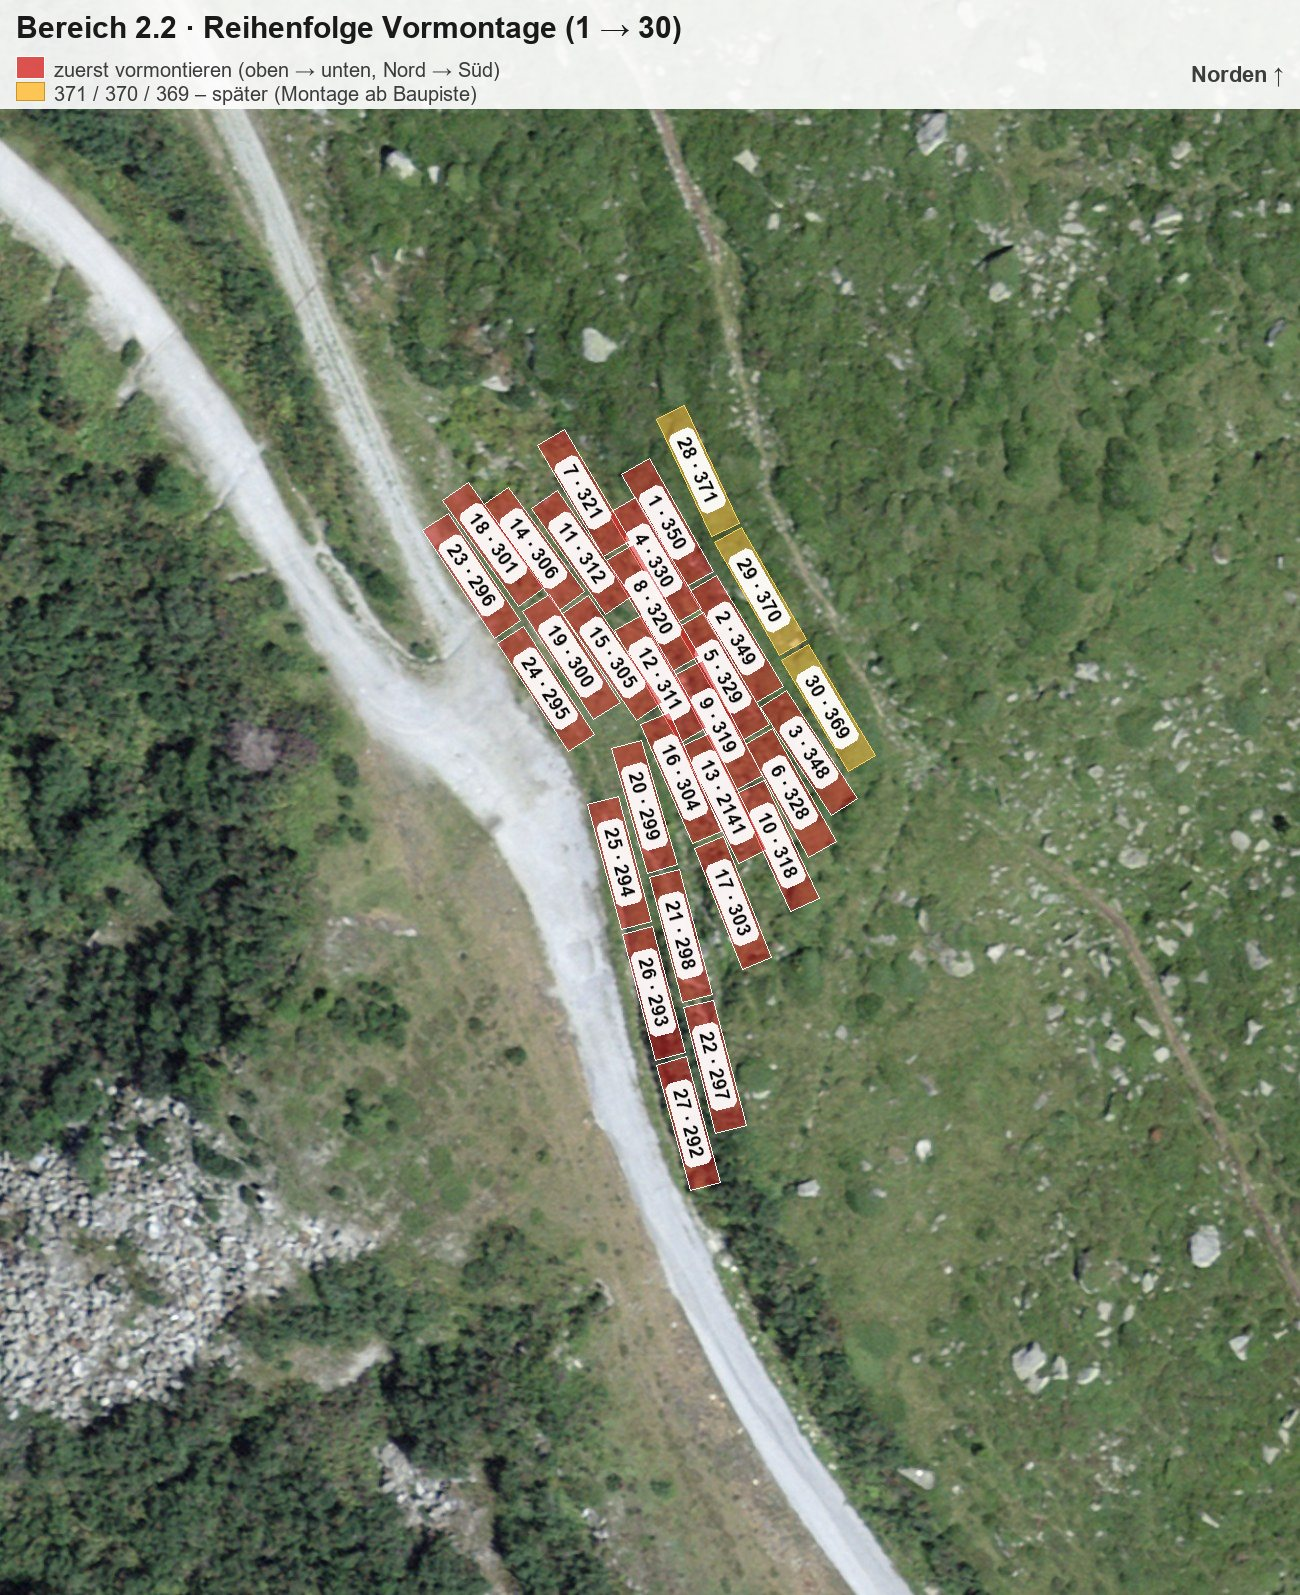
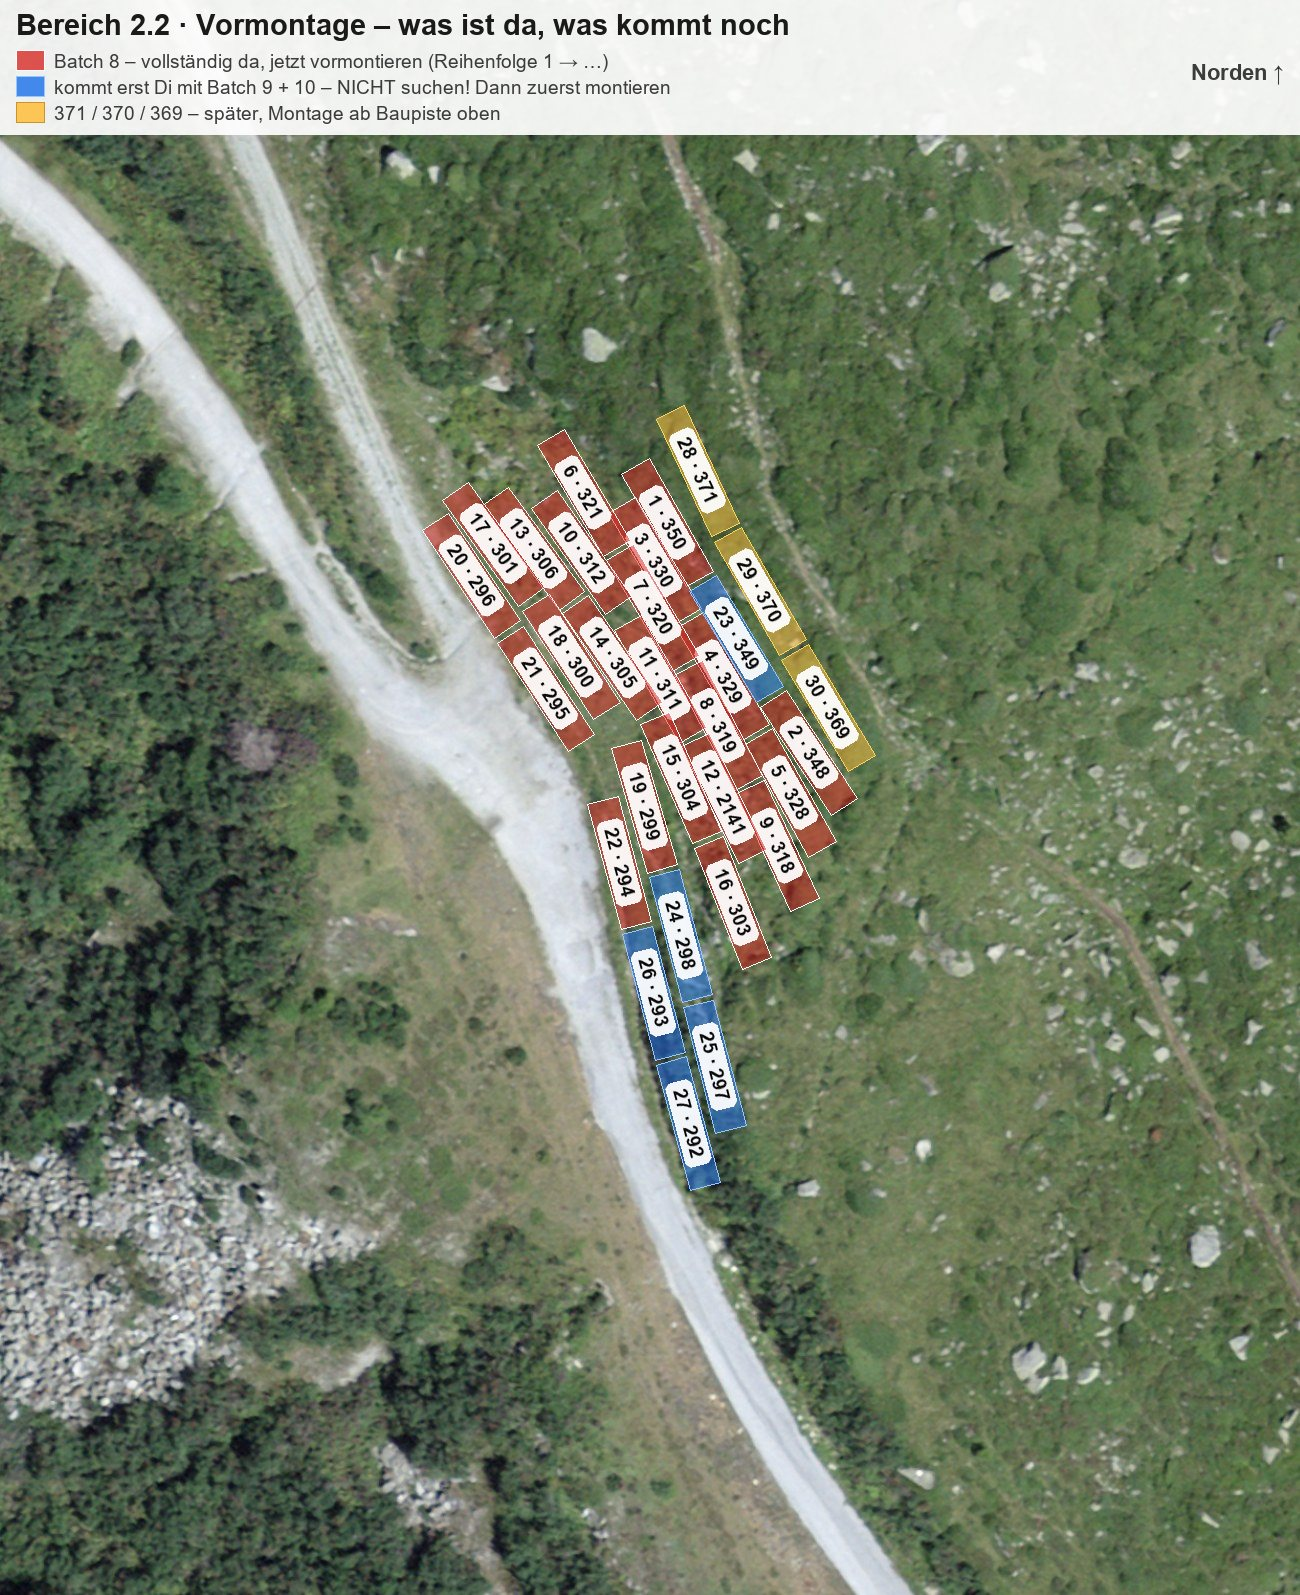
Auftrag 2.2: Batch 8 vor Ort, 5 Tische kommen erst Dienstag
- Bildabgleich mit Victors Nalpi-Karten: 25 der 30 Tische sind Batch 8 und
  vollstaendig vor Ort; 349, 298, 297, 293, 292 fehlen noch (Batch 9+10,
  Dienstag) - Victor sprach von 4, auf dem Bild sind es 5
- Auftragsliste neu gruppiert: zuerst Batch 8, dann Block NOCH NICHT DA
  (blauer Trennbalken, dreisprachig: nicht suchen, bei Ankunft zuerst
  montieren), dann die drei Baupiste-Tische; jede ID mit kleinem Chip
- Karte neu: rot = Batch 8, blau = kommt Dienstag, gelb = ab Baupiste;
  Nummern folgen jetzt der gruppierten Reihenfolge
- Anweisung erlaubt Gruppen-Trennbalken (Feld badges je ID)
- SW-Cache v72

diff --git a/vormontage.html b/vormontage.html
@@ -719,11 +719,21 @@ function anwMalen(){
     'style="width:100%;border:1px solid var(--line);border-radius:6px;cursor:zoom-in" '+
     'onclick="bildGross(this.src)"></div>';
   h+='<div class="tabWrap"><table>';
+  var letzteGruppe=null;
   anw.ids.forEach(function(id,i){
     var ok=!!anwOk[id];
+    var b=(anw.badges&&anw.badges[id])||null;      // {txt, farbe, gruppe}
+    if(b && b.gruppe!==letzteGruppe){              // Zwischenüberschrift je Gruppe
+      letzteGruppe=b.gruppe;
+      h+='<tr><td colspan="3" style="padding-top:14px">'
+        +'<div style="background:'+esc(b.farbe)+';color:#fff;font-weight:900;font-size:12.5px;'
+        +'border-radius:6px;padding:7px 10px">'+esc(b.gruppe)+'</div></td></tr>';
+    } else if(!b && letzteGruppe!==null){ letzteGruppe=null; }
     h+='<tr'+(ok?' style="opacity:.5"':'')+'>'
       +'<td style="width:34px;font-weight:900;color:var(--mut)">'+(i+1)+'.</td>'
-      +'<td style="font-size:19px;font-weight:900'+(ok?';text-decoration:line-through':'')+'">'+esc(id)+'</td>'
+      +'<td style="font-size:19px;font-weight:900'+(ok?';text-decoration:line-through':'')+'">'+esc(id)
+      +(b?' <span style="font-size:11px;font-weight:800;background:'+esc(b.farbe)+';color:#fff;'
+          +'border-radius:4px;padding:2px 6px;vertical-align:2px">'+esc(b.txt)+'</span>':'')+'</td>'
       +'<td style="text-align:right"><button class="btn '+(ok?'ghost':'gruen')+'" style="padding:9px 12px"'
       +' onclick="anwHaken(\''+esc(id)+'\','+(ok?'false':'true')+')">'+(ok?'↺':'✔')+'</button></td></tr>';
   });

diff --git a/sw.js b/sw.js
@@ -1,5 +1,5 @@
 'use strict';
-var CACHE = 'nalpsolar-v71';
+var CACHE = 'nalpsolar-v72';
 var PRECACHE = [
   './index.html',
   './logistik.html',

diff --git a/tools/build_auftragskarte.py b/tools/build_auftragskarte.py
@@ -7,8 +7,9 @@ from PIL import Image, ImageDraw, ImageFont
 
 WEB = r"c:\Users\MaltVic\OneDrive - Strabag BRVZ GmbH\Claude_Projects\Nalps_Ultra_KI\Website_NalpSolar"
 ZIEL = os.path.join(WEB, "assets", "img", "auftrag_bereich22.png")
-FOLGE = json.load(io.open(r"C:\Users\MaltVic\AppData\Local\Temp\claude\folge22.json"))
-SPAETER = {"371", "370", "369"}
+FOLGE = json.load(io.open(r"C:\Users\MaltVic\AppData\Local\Temp\claude\folge22_gruppiert.json"))
+SPAETER = {"371", "370", "369"}                       # gelb: Montage ab Baupiste
+LIEFERUNG = {"349", "298", "297", "293", "292"}       # blau: kommt Di mit Batch 9+10
 
 tische = {t[0]: t for t in json.load(io.open(os.path.join(WEB, "uploads", "tables", "modultische_all.json"), encoding="utf-8"))}
 aus = [tische[i] for i in FOLGE if i in tische]
@@ -54,9 +55,10 @@ for nr, tid in enumerate([t[0] for t in aus], 1):
     dQe, dQn = math.sin(aQ) * BREITE_TISCH / 2, math.cos(aQ) * BREITE_TISCH / 2
     ecken = [px(E + dLe + dQe, N + dLn + dQn), px(E + dLe - dQe, N + dLn - dQn),
              px(E - dLe - dQe, N - dLn - dQn), px(E - dLe + dQe, N - dLn + dQn)]
-    spaet = tid in SPAETER
-    d.polygon(ecken, fill=(255, 190, 60, 130) if spaet else (215, 38, 34, 130),
-              outline=(255, 210, 90) if spaet else (255, 255, 255))
+    if tid in SPAETER:      fuell, rand = (255, 190, 60, 130), (255, 210, 90)
+    elif tid in LIEFERUNG:  fuell, rand = (40, 120, 235, 140), (150, 200, 255)
+    else:                   fuell, rand = (215, 38, 34, 130), (255, 255, 255)
+    d.polygon(ecken, fill=fuell, outline=rand)
     # Nummer + ID, in die Tischachse gedreht (sonst ueberlappen die Reihen)
     cx, cy = px(E, N)
     label = "%d · %s" % (nr, tid)
@@ -74,14 +76,16 @@ for nr, tid in enumerate([t[0] for t in aus], 1):
     karte.paste(chip, (int(cx - chip.width / 2), int(cy - chip.height / 2)), chip)
 
 # Legende
-lh = 108
-d.rectangle([0, 0, BREITE, lh], fill=(255, 255, 255, 232))
-d.text((16, 10), "Bereich 2.2 · Reihenfolge Vormontage (1 → %d)" % len(aus), font=f(30), fill=(26, 26, 26))
-d.rectangle([16, 56, 44, 78], fill=(215, 38, 34, 200), outline=(255, 255, 255))
-d.text((54, 58), "zuerst vormontieren (oben → unten, Nord → Süd)", font=f(20, False), fill=(60, 60, 60))
-d.rectangle([16, 82, 44, 100], fill=(255, 190, 60, 220), outline=(200, 150, 40))
-d.text((54, 82), "371 / 370 / 369 – später (Montage ab Baupiste)", font=f(20, False), fill=(60, 60, 60))
-d.text((BREITE - 16, 62), "Norden ↑", font=f(22), fill=(60, 60, 60), anchor="ra")
+lh = 134
+d.rectangle([0, 0, BREITE, lh], fill=(255, 255, 255, 234))
+d.text((16, 8), "Bereich 2.2 · Vormontage – was ist da, was kommt noch", font=f(29), fill=(26, 26, 26))
+d.rectangle([16, 50, 44, 70], fill=(215, 38, 34, 200), outline=(255, 255, 255))
+d.text((54, 50), "Batch 8 – vollständig da, jetzt vormontieren (Reihenfolge 1 → …)", font=f(19, False), fill=(60, 60, 60))
+d.rectangle([16, 76, 44, 96], fill=(40, 120, 235, 220), outline=(150, 200, 255))
+d.text((54, 76), "kommt erst Di mit Batch 9 + 10 – NICHT suchen! Dann zuerst montieren", font=f(19, False), fill=(60, 60, 60))
+d.rectangle([16, 102, 44, 122], fill=(255, 190, 60, 220), outline=(200, 150, 40))
+d.text((54, 102), "371 / 370 / 369 – später, Montage ab Baupiste oben", font=f(19, False), fill=(60, 60, 60))
+d.text((BREITE - 16, 60), "Norden ↑", font=f(22), fill=(60, 60, 60), anchor="ra")
 
 os.makedirs(os.path.dirname(ZIEL), exist_ok=True)
 karte.save(ZIEL, quality=88)
